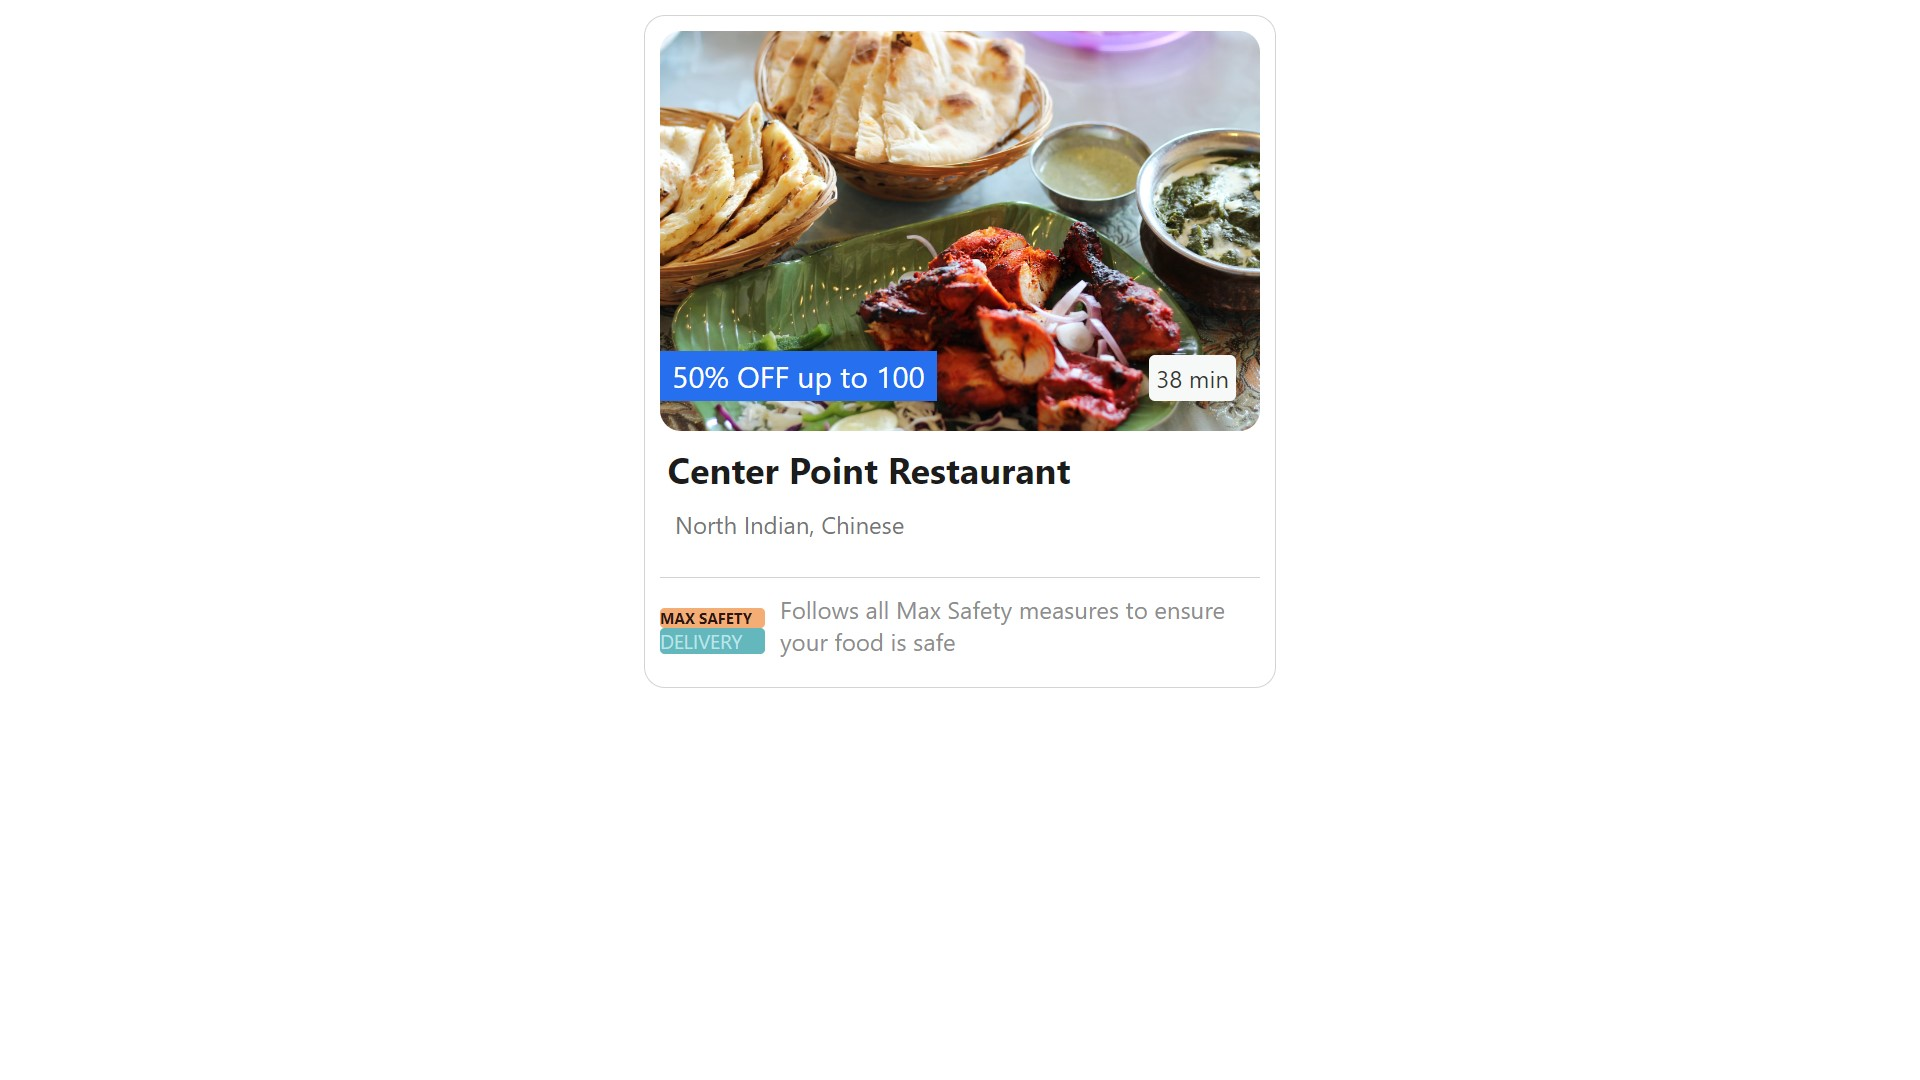
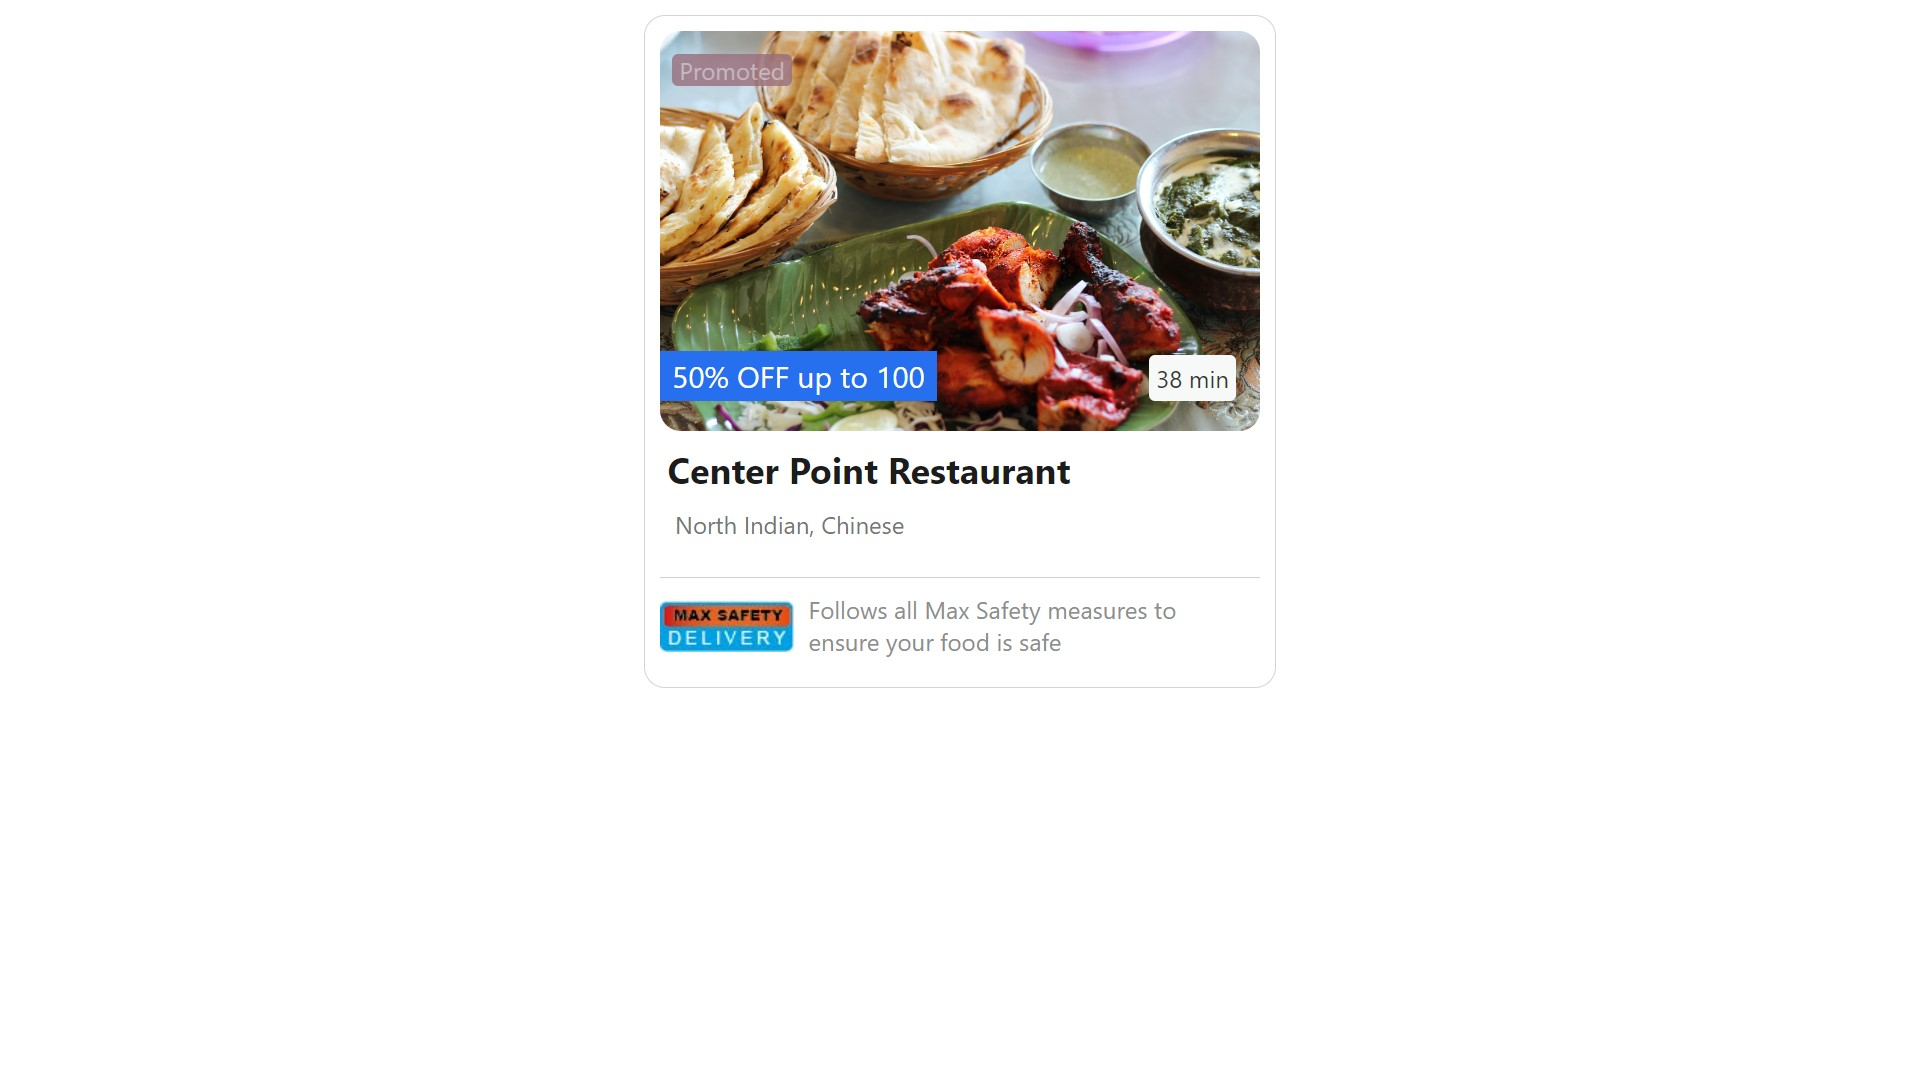
last

Changed region(s): [[0.3438, 0.55, 0.625, 0.6111], [0.3438, 0.0306, 0.4375, 0.0917]]

diff --git a/Assignment3/style.css b/Assignment3/style.css
@@ -40,41 +40,49 @@ body{
 }
 .loc{
     position: absolute;
-    top:8px;
+    top:12px;
 }
 .dropdown{
     position: absolute;
-    top:9px;
+    top:12px;
     left: 106px;
 }
-.search-bar select{
-    width: 120px;
-    padding-top: 9px;
-    padding-bottom: 9px;
-    padding-left: 15px;
-    padding-right: 40px;
-    font-size:x-small;
-    border: 1px solid lightgray;
-    border-top-left-radius: 7px;
-    border-bottom-left-radius: 7px;
-    
+
+.search-bar>span{
+    padding: 10px;
+    padding-left: 20px;
+    font-size: x-small;
 }
 .search{
     position: absolute;
-    top:8px;
-    left:130px;
+    top:12px;
+    left:135px;
     z-index: 2;
 }
-.search-bar input{
+.search-bar span input{
     position: absolute;
     top:0;
+    left:130px;
     width: 270px;
-    padding-top: 9px;
-    padding-bottom: 9px;
-    padding-left: 30px;
-    border:1px solid lightgray ;
-    border-top-right-radius: 7px;
-    border-bottom-right-radius: 7px;
+    padding: 13px 15px;
+    padding-left: 22px;
     z-index: 1;
     font-size: x-small;
+    background-color: #fff;
+    border: none;
+}
+.search-bar{
+    border: 1px solid lightgray;
+    padding: 10px;
+    background-color: #fff;
+    width: 70%;
+    border-radius: 7px;
+}
+.border{
+    position: absolute;
+    top:10px;
+    left: 125px;
+    width:0px;
+    height: 20px;
+    border:1px solid lightgray;
 }

diff --git a/Assignment3/index.html b/Assignment3/index.html
@@ -14,14 +14,11 @@
         <p>Discovery the best food & drink in Lucknow</p>
         <div class="search-bar">
         <img class="loc"src="location.png" alt="location-icon" />
-        <select name="" id="">
-        <option value="1">Lucknow</option>
-        <option value="2">Chennai</option>
-        <option value="3">Bengalure</option>
-        </select>
+        <span>Lucknow</span>
         <img class="dropdown"src="dropdown-icon.jpg" />
+        <div class="border"></div>
         <img src="search.jpg" class="search" />
-        <input type="text" placeholder="Search for restaurant, cuisine or a dish" />
+        <span><input type="text" placeholder="Search for restaurant, cuisine or a dish" /></span>
         </div>
     </div>
 </body>

diff --git a/Assignment1/index.html b/Assignment1/index.html
@@ -10,6 +10,7 @@
     <div class="card">
         <div class="card-img">
             <img src="food.avif" art="food img"/>
+            <div class="promoted">Promoted</div>
             <div class="tag">50% OFF up to 100</div>
             <div class="time">38 min</div>            
         </div>
@@ -17,9 +18,9 @@
         <p>North Indian, Chinese</p>
         <div class="border"></div>
         <div class="max">
-        <div class="footer"><span class="span up">MAX SAFETY</span>
-            <span class="span down">DELIVERY</span>
-        </div>
+        <div class="footer">
+            <img src="MaxSafety.jpg"/>
+         </div>   
         <p>Follows all Max Safety measures to ensure 
             your food is safe</p>
         </div>

diff --git a/Assignment1/style.css b/Assignment1/style.css
@@ -35,6 +35,16 @@ body{
     padding: 0.3rem;
     border-radius: 4px;
 }
+.promoted{
+    position: absolute;
+    top: 15px;
+    left: 8px;
+    color: #C8B1B8;
+    background-color: #986E7C;
+    border-radius: 4px;
+    padding: 0px 5px;
+    opacity: 0.8;
+}
 .border{
     border-bottom: 1px solid lightgray;
     margin-top: 25px;
@@ -49,19 +59,11 @@ body{
 .card>p{
     color: #757575;
 }
-.footer{
-    border-radius: 2px;
-    box-sizing: border-box;
-    
-}
-.footer span{
-    display: flex;
-    width: 70px;
-}
-.span{
-    margin-top: 20px;
-}
 
+
+.footer{
+    margin-top: 15px;
+}
 .up{
     background-color: #F4AD75;
     font-size:x-small;

diff --git a/Assignment4/style.css b/Assignment4/style.css
@@ -1,6 +1,9 @@
 .profile{
     margin: 10px auto;
     width: 400px;
+    height:400px;
+    border: 15px solid lightgray;
+    border-bottom: none;
     position: relative;
 }
 .profile-bg{
@@ -8,19 +11,21 @@
     border-top-left-radius: 14px;
     border-top-right-radius: 14px;
 }
+
 .profile-header{
-    position: absolute;
+    position: relative;
 }
 .user{
     border-radius: 50%;
     position: absolute;
-    left: 160px;
-    bottom: -30px;
+    left: 80px;
+    top: 40px;
+   
 }
 .content{
     margin: 20px;
     text-align: center;
     position: absolute;
-    top:100px;
-    left: 50px;
+    top:190px;
+    left: 45px;
 }

diff --git a/Assignment4/index.html b/Assignment4/index.html
@@ -9,10 +9,12 @@
 <body>
     <div class="profile">
         <div class="profileheader">
-        <img src="https://source.unsplash.com/500x100/?nature" alt=""
+        <img src="https://source.unsplash.com/500x150/?nature" alt=""
         class="profile-bg">
+        <div class="user">
         <img src="https://source.unsplash.com/80x80/?women" alt=""
         class="user">
+        </div>
         </div>
         <div class="content">
         <h1>SHIVANI ANANDAN</h1>
